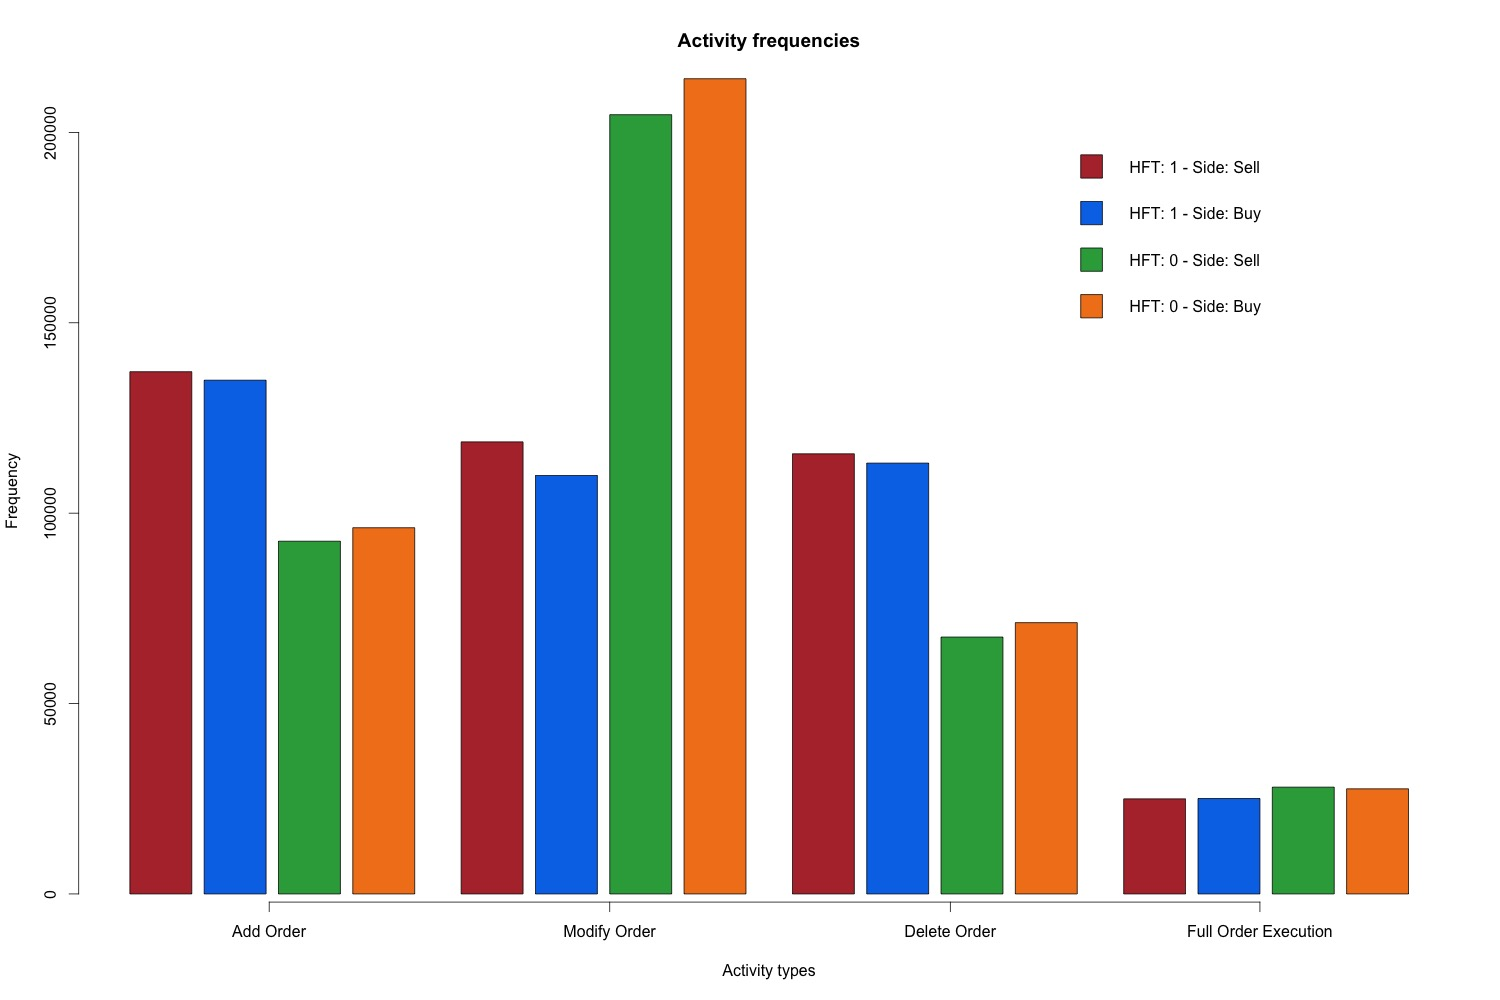
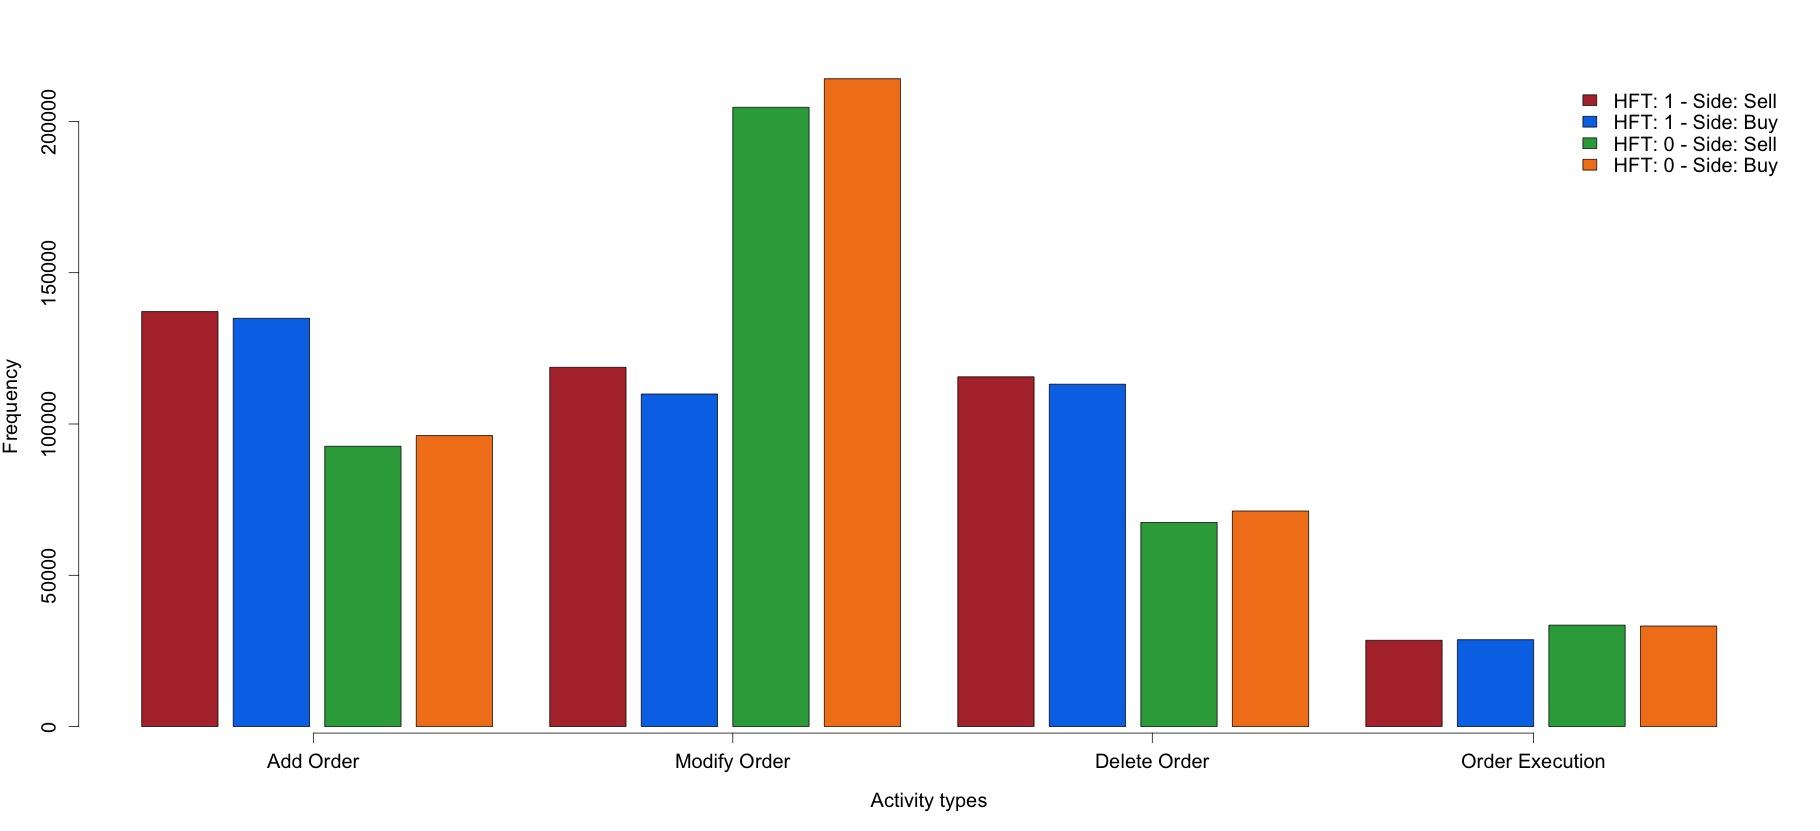
combine full and partial order execution update image text sizing

diff --git a/hft-java/src/HftStatistics.java b/hft-java/src/HftStatistics.java
@@ -14,6 +14,7 @@ public class HftStatistics {
 	public static final String ACTIVITY_TYPE_ADD_ORDER = "ADD_ORDER";
 	public static final String ACTIVITY_TYPE_DELETE_ORDER = "DELETE_ORDER";
 	public static final String ACTIVITY_TYPE_FULL_ORDER_EXECUTION = "FULL_ORDER_EXECUTION";
+	public static final String ACTIVITY_TYPE_PARTIAL_ORDER_EXECUTION = "PARTIAL_ORDER_EXECUTION";
 	
 	public static final Integer COLUMN_ID = 1;
 	public static final Integer COLUMN_ACTIVITY_TYPE = 9;//10;
@@ -201,7 +202,7 @@ public class HftStatistics {
 		BufferedReader brBuynonHFT = new BufferedReader(new FileReader(new File(buyFilenonHFT)));
 		BufferedWriter bw = new BufferedWriter(new FileWriter(new File(resultFile)));
 		
-		bw.write("HFT" + separator + "Side" + separator + "Add Order" + separator + "Delete Order" + separator + "Modify Order" + separator + "Full Order Execution" + separator + "\n");
+		bw.write("HFT" + separator + "Side" + separator + "Add Order" + separator + "Delete Order" + separator + "Modify Order" + separator + "Order Execution" + "\n");
 
 		String sellLineHFT = getActivityTypeForSide(brSellHFT, "Sell", separator, 1);
 		String buyLineHFT = getActivityTypeForSide(brBuyHFT, "Buy", separator, 1);
@@ -226,7 +227,7 @@ public class HftStatistics {
 		Integer addOrderCount = 0;
 		Integer deleteOrderCount = 0;
 		Integer modifyOrderCount = 0;
-		Integer fullOrderExecutionCount = 0;
+		Integer orderExecutionCount = 0;
 		
 		while((line = br.readLine()) != null){
 			String[] cells = line.split(separator);
@@ -242,7 +243,12 @@ public class HftStatistics {
 					modifyOrderCount++;
 					break;
 				case ACTIVITY_TYPE_FULL_ORDER_EXECUTION:
-					fullOrderExecutionCount++;
+					// combine partial and full order Ececution
+					orderExecutionCount++;
+					break;
+				case ACTIVITY_TYPE_PARTIAL_ORDER_EXECUTION:
+					// combine partial and full order Ececution
+					orderExecutionCount++;
 					break;
 				default:
 					break;
@@ -250,7 +256,7 @@ public class HftStatistics {
 			count++;
 		}
 		
-		String result = HFT + separator + side + separator + addOrderCount + separator + deleteOrderCount + separator + modifyOrderCount + separator + fullOrderExecutionCount + separator + "\n";
+		String result = HFT + separator + side + separator + addOrderCount + separator + deleteOrderCount + separator + modifyOrderCount + separator + orderExecutionCount + "\n";
 		return result;
 	}
 	
